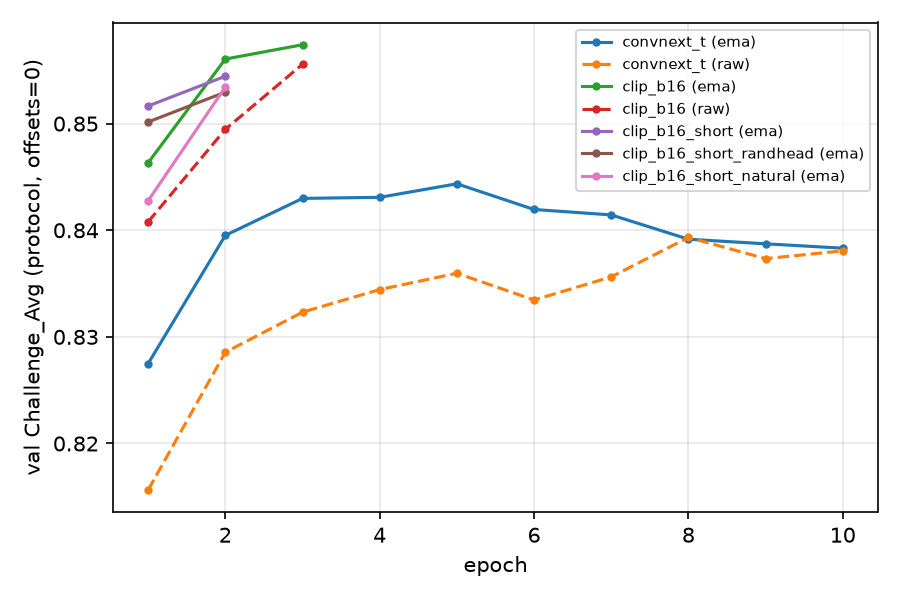
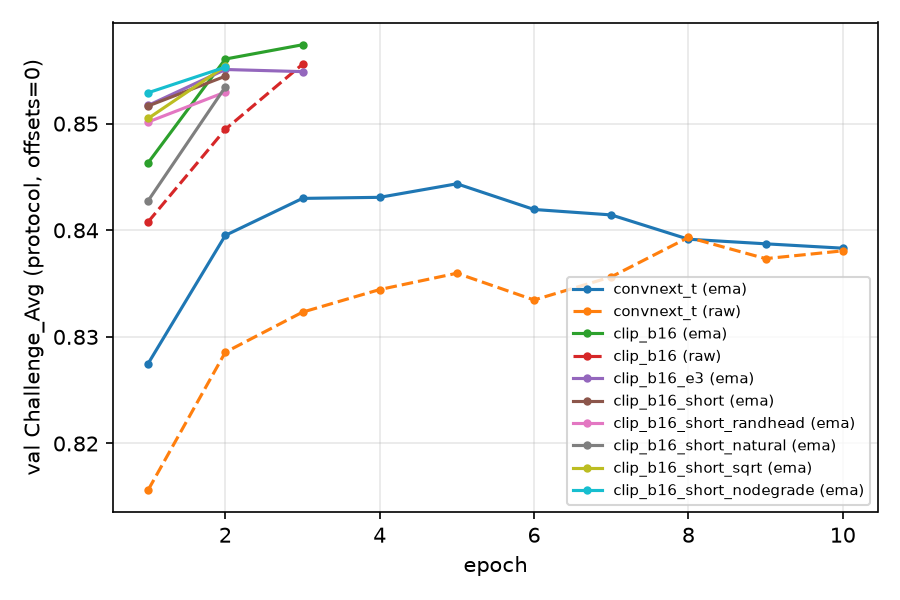
Fill README results and submissions tables; regenerate ablation table/figures for all runs; tidy logs and ablation script

diff --git a/README.md b/README.md
@@ -16,7 +16,7 @@ Code for our entry to Track 1 (Pedestrian Attribute Recognition) of the UPAR Cha
 | `figures/` | report figures | yes |
 | `data/raw/` | Market1501, PA100k, PETA and annotations (moved out of the starter kit) | no |
 | `data/cache/` | 256x128 uint8 memmaps used for training | no |
-| `logs/` | logs from runs started before the per-run `train.log` existed | no |
+| `logs/` | full console output of each run (`<config>.log`), plus download/cache-build logs | no |
 | `starter_kit/` | the organizers' repo (download script, sample submission) | no |
 
 ## Setup (Windows/Linux, Python 3.11, CUDA 12.1 build)
@@ -60,4 +60,40 @@ passes have their own short bar, and each epoch's results are printed and saved 
 
 ## Results
 
-(filled in as runs finish — see `results/`)
+All numbers are Challenge_Avg on the official val split, averaged over Market1501, PA100k and PETA (the test
+protocol). "Held-out" means N4 offsets and N5 groups fitted on one half of val and scored on the other (2-fold mean).
+Full table: `results/ablations.csv`; figures: `figures/`.
+
+| Model | val, offsets=0 | held-out +N4+N5 |
+|---|---|---|
+| Prior-only baseline (organizers) | 0.530 | – |
+| CLIP ViT-B/16 zero-shot (no training) | 0.638 | – |
+| Model A: ConvNeXt-T, N2+N3, 10 ep (best ep 5), +flip-TTA | 0.8452 | 0.8569 |
+| **Model B: CLIP ViT-B/16, N1+N2+N3, 6-ep schedule stopped after ep 3** | **0.8574** | **0.8742** |
+| Model B recipe with a 3-epoch schedule | 0.8551 | 0.8710 |
+| Ensemble 0.7·B + 0.3·A (logit average) | 0.8585 | 0.8765 |
+
+Ablations (2-epoch CLIP ViT-B/16, full recipe = 0.8709 held-out):
+
+| Component removed / changed | held-out +N4+N5 | Effect of the component |
+|---|---|---|
+| N1: random head instead of text-initialised | 0.8675 | +0.0034 |
+| N2: natural sampling instead of equal per dataset | 0.8665 | +0.0044 |
+| N2 variant: sampling ∝ sqrt(dataset size) | 0.8694 | −0.0015 vs equal |
+| N3: no degradation, clean val | 0.8717 | −0.0008 (noise) |
+| N3: no degradation, degraded val (0.4x scale, JPEG q40) | 0.8605 vs 0.8665 | +0.0060 |
+| N4: no calibration (Model B) | 0.8575 | +0.0160 |
+| N5: no structured decoding | – | +0.0001 to +0.0007 |
+
+## Submissions (`upload/`)
+
+| Zip | Contents | Val held-out | Test |
+|---|---|---|---|
+| `sub01_smoke_convnext.zip` | ConvNeXt after 10% of an epoch (pipeline test) | ~0.766 | not uploaded |
+| `sub02_convnext_t_calib.zip` | Model A + N4 + N5 + flip-TTA | 0.8569 | not uploaded |
+| `sub03_clip_b16_calib.zip` | Model B + N4 (λ=1) + N5 | 0.8742 | uploaded 2026-10-20, pending |
+| `sub04_clip_b16_lam05.zip` | Model B + N4 shrunk to λ=0.5 + N5 | ~0.867 | not uploaded |
+| `sub05_clip_b16_trainval.zip` | Model B recipe trained on train+val, sub03's offsets | n/a (val seen) | not uploaded |
+
+Rebuild sub05: `python src/train.py --config configs/clip_b16_trainval.yaml`, then
+`python src/export.py --run results/clip_b16_trainval --ckpt last_ema.pt --calib ../clip_b16/calib.json --no-flip`.
